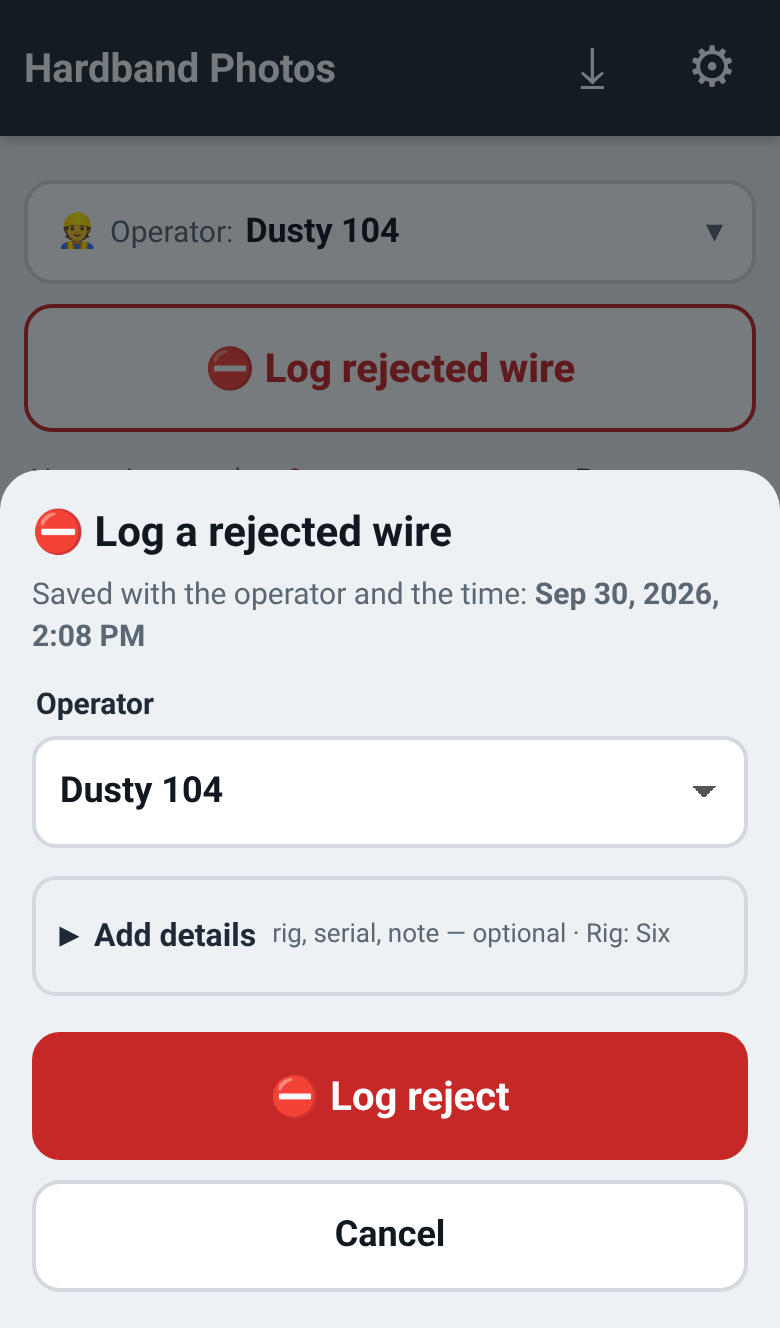
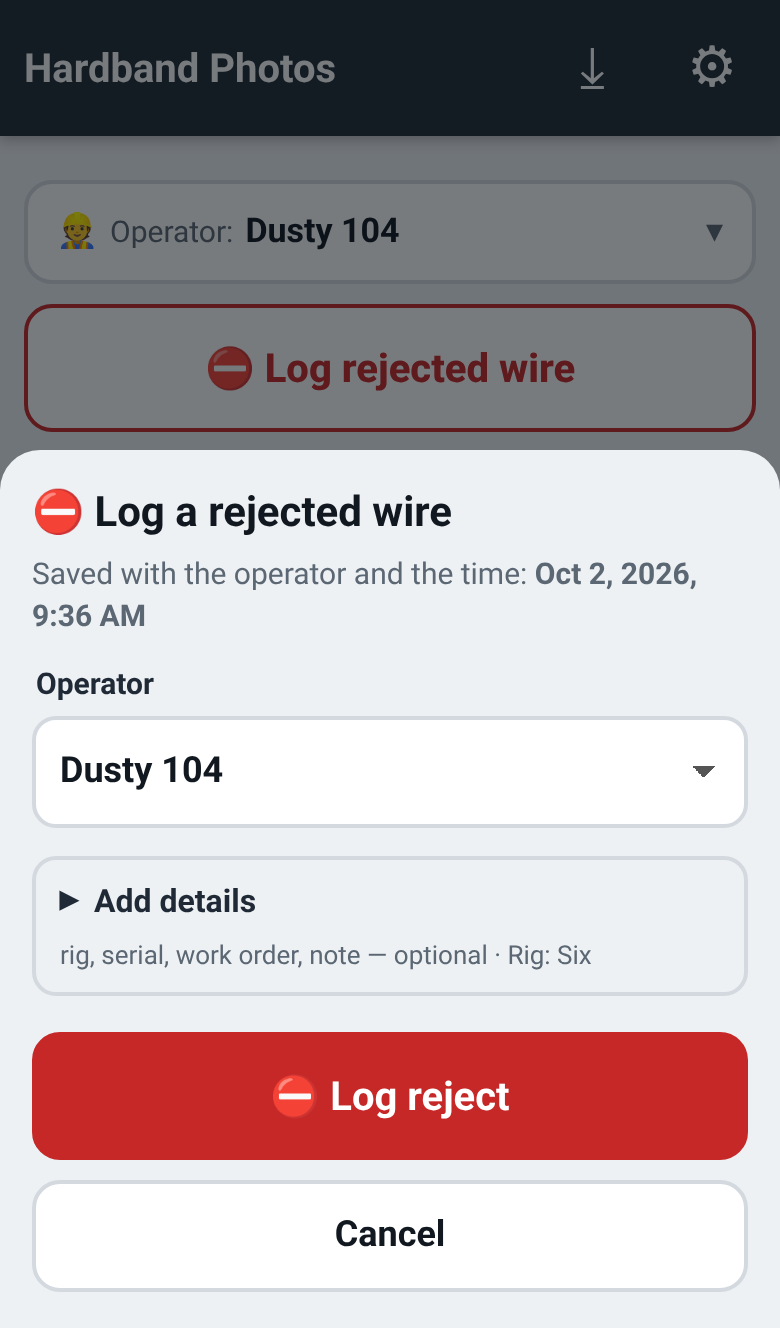
Reject log: optional 'Work order #' field under Add details in the '⛔ Log rejected wire' sheet (between Serial number and Note; summary reads 'rig, serial, work order, note — optional'), saved on the reject (workOrder), shown in the operator's reject list (WO …), work_order column in rejects.csv / R

Changed region(s): [[0.0, 0.3396, 1.0, 0.741], [0.6154, 0.6792, 0.8615, 0.741]]

diff --git a/sync.js b/sync.js
@@ -92,18 +92,25 @@ function applyPhotoRow(p, r) {
   if (!('thumb' in p)) p.thumb = null;
   return p;
 }
-// Rejected-wire log (table public.rejects, migration 004_rejects.sql).
+// Rejected-wire log (table public.rejects, migration 004_rejects.sql; work_order added by 005_reject_work_order.sql).
 function rejectToRow(r) {
   return {
     id: r.id, operator: String(r.operator || '').trim().replace(/\s+/g, ' ') || null, rejected_at: tsIso(r.rejectedAt),
     rig_id: r.rigId || '', rig_name: r.rigName || null, serial_number: r.serialNumber || '', note: r.note || '',
+    work_order: String(r.workOrder || '').trim() || null,
     client_updated_at: Math.round(r.updatedAt || r.rejectedAt || 0) || 0, deleted_at: tsIso(r.deletedAt),
     created_by_name: r.loggedBy || null, updated_by_name: S.meta.syncName || null,
   };
 }
-function rowToReject(r) {
+function rowToReject(r, local) {
   const it = { id: r.id, operator: r.operator || '', rejectedAt: tsMs(r.rejected_at) || tsMs(r.created_at) || Date.now(), rigId: r.rig_id || '',
     rigName: r.rig_name || '', serialNumber: r.serial_number || '', note: r.note || '', loggedBy: r.created_by_name || '', updatedAt: Number(r.client_updated_at) || 0 };
+  // Work order (same rule as the photo operator): a real value always wins. An empty one clears it, except while this
+  // phone still has to upload its work order (saved before the server had the column) — then the local value is kept
+  // until the catch-up. No 'work_order' key at all = server not migrated yet (005): keep what this phone has.
+  const mine = (local && local.workOrder) || '';
+  if ('work_order' in r) it.workOrder = r.work_order ? String(r.work_order) : ((S.meta.workOrderBacklog || []).includes(r.id) ? mine : '');
+  else it.workOrder = mine;
   if (r.deleted_at) it.deletedAt = tsMs(r.deleted_at);
   return it;
 }
@@ -141,10 +148,12 @@ async function sbFetch(path, { method = 'GET', headers = {}, body, timeout } = {
 // run, PostgREST answers 400 PGRST204 "Could not find the 'stage' column of 'photos' in the schema cache"
 // (42703 "column photos.stage does not exist" on a select). missingCol() tells which column the server lacks.
 const OPT_COLS = ['stage', 'operator'];
-const missingCol = (e) => {
+// Reject columns added by later migrations: work_order (005_reject_work_order.sql). Same detection as for photos.
+const REJECT_OPT_COLS = ['work_order'];
+const missingCol = (e, cols = OPT_COLS) => {
   if (!e || e.status !== 400) return '';
   const msg = e.message || '';
-  return OPT_COLS.find((c) => new RegExp(`'${c}' column|column [\\w."]*\\b${c}\\b`, 'i').test(msg)) || '';
+  return cols.find((c) => new RegExp(`'${c}' column|column [\\w."]*\\b${c}\\b`, 'i').test(msg)) || '';
 };
 const isNoStageCol = (e) => missingCol(e) === 'stage';
 // Table public.rejects not created yet (migration 004_rejects.sql not run): PostgREST answers 404 PGRST205 "Could not
@@ -161,7 +170,7 @@ const downloadObj = async (path) => { const res = await sbFetch(objPath(path), {
 
 /* ---------- the engine ---------- */
 const Sync = {
-  on: HB_CFG.on, stageCol: null, stageCheckedAt: 0, operatorCol: null, operatorCheckedAt: 0, rejectsTable: null, rejectsCheckedAt: 0, running: false, again: false, pending: 0, phase: '', lastError: null, lastOk: 0, timer: null, changed: false,
+  on: HB_CFG.on, stageCol: null, stageCheckedAt: 0, operatorCol: null, operatorCheckedAt: 0, workOrderCol: null, workOrderCheckedAt: 0, rejectsTable: null, rejectsCheckedAt: 0, running: false, again: false, pending: 0, phase: '', lastError: null, lastOk: 0, timer: null, changed: false,
   get session() { return S.meta.syncSession || null; },
   get signedIn() { return !!(HB_CFG.on && this.session && this.session.refresh_token); },
 
@@ -273,6 +282,7 @@ const Sync = {
     await this.stageCatchUp();
     await this.operatorCatchUp();
     await this.rejectsCatchUp();
+    await this.workOrderCatchUp();
     const entries = (await db.all('outbox')).sort((a, b) => a.at - b.at);
     if (!entries.length) return;
     const order = { customers: 0, rigs: 1, pipeSpecs: 2, photos: 3, rejects: 4 };
@@ -320,8 +330,59 @@ const Sync = {
     const backlog = S.meta.rejectBacklog || [], add = ids.filter((id) => !backlog.includes(id));
     if (add.length) await setMeta('rejectBacklog', backlog.concat(add));
   },
+  // Until the server has the 'work_order' column (005_reject_work_order.sql), PostgREST answers 400 PGRST204 (or
+  // 42703): the rows are sent again without it (so sync never breaks and the pill stays ✓ Synced), the phone keeps the
+  // value, and rejects that have one are remembered (meta.workOrderBacklog) and filled in once the column exists.
   async upsertRejects(recs) {
-    for (let i = 0; i < recs.length; i += 200) await upsertRows('rejects', recs.slice(i, i + 200).map(rejectToRow));
+    for (let i = 0; i < recs.length; i += 200) {
+      const chunk = recs.slice(i, i + 200), rows = chunk.map(rejectToRow);
+      const drop = () => rows.forEach((x) => { delete x.work_order; });
+      if (this.workOrderCol === false) drop();
+      for (;;) {
+        try { await upsertRows('rejects', rows); break; }
+        catch (e) {
+          if (missingCol(e, REJECT_OPT_COLS) !== 'work_order' || !('work_order' in rows[0])) throw e;
+          if (this.workOrderCol !== false) console.warn('sync: server has no rejects.work_order column yet (run 005_reject_work_order.sql) — uploading without it');
+          this.workOrderCol = false; this.workOrderCheckedAt = Date.now();
+          drop();
+        }
+      }
+      if ('work_order' in rows[0]) { this.workOrderCol = true; continue; }
+      const backlog = S.meta.workOrderBacklog || [];
+      const add = chunk.filter((r) => rejectToRow(r).work_order && !backlog.includes(r.id)).map((r) => r.id);
+      if (add.length) await setMeta('workOrderBacklog', backlog.concat(add));
+    }
+  },
+  // Rejects uploaded while the column was missing get their work order filled in once it exists (checked at most
+  // every 5 min). A work_order-only PATCH, and only where the server's value is still empty (like the operator
+  // catch-up): it keeps the row's edit time and never overwrites a work order set since by another phone.
+  async workOrderCatchUp() {
+    const backlog = S.meta.workOrderBacklog || [];
+    if (!backlog.length || this.rejectsParked()) return false;
+    if (this.workOrderCol === false && Date.now() - (this.workOrderCheckedAt || 0) < 300000) return false;
+    this.workOrderCheckedAt = Date.now();
+    try { await sbFetch('/rest/v1/rejects?select=id,work_order&limit=1'); }
+    catch (e) {
+      if (missingCol(e, REJECT_OPT_COLS) === 'work_order') { this.workOrderCol = false; return false; }
+      if (isNoTable(e)) return false;
+      throw e;
+    }
+    this.workOrderCol = true;
+    const by = new Map();
+    for (const id of backlog) {
+      const r = await db.get('rejects', id), v = r && rejectToRow(r).work_order;
+      if (v) { if (!by.has(v)) by.set(v, []); by.get(v).push(id); }
+    }
+    for (const [v, list] of by) {
+      for (let i = 0; i < list.length; i += 100) {
+        const ids = list.slice(i, i + 100).map((x) => `"${String(x).replace(/["\\]/g, '')}"`).join(',');
+        await sbFetch(`/rest/v1/rejects?id=in.(${encodeURIComponent(ids)})&work_order=is.null`, { method: 'PATCH', body: JSON.stringify({ work_order: v }),
+          headers: { 'Content-Type': 'application/json', Prefer: 'return=minimal' } });
+      }
+    }
+    const left = (S.meta.workOrderBacklog || []).filter((id) => !backlog.includes(id)); // added while uploading
+    await setMeta('workOrderBacklog', left);
+    return true;
   },
   async pushRejects(entries) {
     if (!entries.length) return;
@@ -381,8 +442,10 @@ const Sync = {
       const dirty = outbox.get(`rejects:${r.id}`), local = await db.get('rejects', r.id);
       const lts = local ? (local.updatedAt || 0) : -1, rts = Number(r.client_updated_at) || 0;
       if (local && (dirty || backlog.has(r.id)) && lts > rts) continue;                        // our newer edit wins; it will upload
-      if (local && lts === rts && !!local.deletedAt === !!r.deleted_at) { if (dirty) await outboxDone(dirty); continue; } // already have it
-      const it = rowToReject(r);
+      // (a work order filled in later by another phone's catch-up PATCH keeps the edit time, so compare it too)
+      const sameExtra = local && (!r.work_order || r.work_order === local.workOrder);
+      if (local && lts === rts && sameExtra && !!local.deletedAt === !!r.deleted_at) { if (dirty) await outboxDone(dirty); continue; } // already have it
+      const it = rowToReject(r, local);
       await db.put('rejects', it);
       S.rejects = S.rejects.filter((x) => x.id !== it.id);
       if (!it.deletedAt) S.rejects.push(it);

diff --git a/app.js b/app.js
@@ -1256,8 +1256,9 @@ function drawInspBar(v) {
 }
 
 /* ================= rejects: rejected-wire log ================= */
-// One record per rejected wire: { id, operator ('Name Number'), rejectedAt (ms), rigId, rigName, serialNumber, note,
-// loggedBy (team sign-in name on the phone), updatedAt, deletedAt? }. Only the operator is required.
+// One record per rejected wire: { id, operator ('Name Number'), rejectedAt (ms), rigId, rigName, serialNumber, workOrder,
+// note, loggedBy (team sign-in name on the phone), updatedAt, deletedAt? }. Only the operator is required.
+// workOrder = optional "Work order #" (Supabase column rejects.work_order, migration 005_reject_work_order.sql).
 // Counted per operator by number (opKey), like the photos. Shared through the team-library table public.rejects
 // (supabase/migrations/004_rejects.sql); until that table exists they stay on the phone and upload later.
 // Delete = soft (deletedAt) in team mode, so the delete reaches the other phones; nothing is hard-deleted.
@@ -1279,10 +1280,11 @@ function rejectSummaryHTML(curOp) {
   const mine = k ? S.rejects.filter((r) => opKey(r.operator) === k && isoDay(r.rejectedAt) === today).length : 0;
   return `<a class="rej-sum" id="rejSummary" href="#/rejects"><span>${k ? `Your rejects today: <b id="rejMine">${mine}</b>` : `Rejects logged: <b id="rejMine">${S.rejects.length}</b>`}</span><span class="rej-sum-r">By operator ›</span></a>`;
 }
-async function logReject({ operator, rigId = '', serialNumber = '', note = '' }) {
+async function logReject({ operator, rigId = '', serialNumber = '', workOrder = '', note = '' }) {
   const now = Date.now();
   const r = { id: 'rj_' + uid(), operator: cleanOp(operator), rejectedAt: now, rigId: rigId || '', rigName: labelOf('rigs', rigId) || '',
-    serialNumber: String(serialNumber || '').trim().toUpperCase(), note: String(note || '').trim(), loggedBy: S.meta.syncName || '', updatedAt: now };
+    serialNumber: String(serialNumber || '').trim().toUpperCase(), workOrder: String(workOrder || '').trim(), note: String(note || '').trim(),
+    loggedBy: S.meta.syncName || '', updatedAt: now };
   await db.put('rejects', r);
   S.rejects.push(r);
   markDirty('rejects', r.id);
@@ -1305,7 +1307,7 @@ async function undoReject(r) {
   toast('Reject removed');
 }
 // One tap on "Log rejected wire" + one tap on "Log reject". The operator is pre-picked from the phone; with none set,
-// the same pick-your-name dropdown (or Add new operator) must be used first. Rig / serial / note are optional.
+// the same pick-your-name dropdown (or Add new operator) must be used first. Rig / serial / work order / note are optional.
 function logRejectSheet() {
   const lu = S.meta.lastUsed || {};
   const rigId = (S.inspection && S.inspection.rigId) || (S.rigs.has(lu.rigId) ? lu.rigId : '');
@@ -1315,6 +1317,7 @@ function logRejectSheet() {
     <details class="more-box" id="rejMore"><summary>Add details <span class="muted small" id="rejMoreSum"></span></summary>
       <div class="field"><label for="rejRig">Rig</label><select id="rejRig"><option value="">No rig</option>${opts('rigs', rigId)}</select></div>
       <div class="field"><label for="rejSerial">Serial number</label><input id="rejSerial" type="text" placeholder="Stamped serial / joint #" autocapitalize="characters" autocorrect="off" spellcheck="false" autocomplete="off"></div>
+      <div class="field"><label for="rejWo">Work order #</label><input id="rejWo" type="text" maxlength="60" placeholder="e.g. WO-12345" autocorrect="off" spellcheck="false" autocomplete="off"></div>
       <div class="field"><label for="rejNote">Note</label><input id="rejNote" type="text" maxlength="200" placeholder="e.g. porosity, cracks, bad wire" autocomplete="off"></div>
     </details>
     <div class="stack form-actions">
@@ -1322,7 +1325,7 @@ function logRejectSheet() {
       <button type="button" class="btn ghost block" id="rejCancel">Cancel</button>
     </div>`);
   const ctl = bindOpField('rejOp');
-  const sum = () => { const rn = labelOf('rigs', $('#rejRig', m).value); $('#rejMoreSum', m).textContent = `rig, serial, note — optional${rn ? ` · Rig: ${rn}` : ''}`; };
+  const sum = () => { const rn = labelOf('rigs', $('#rejRig', m).value); $('#rejMoreSum', m).textContent = `rig, serial, work order, note — optional${rn ? ` · Rig: ${rn}` : ''}`; };
   sum();
   $('#rejRig', m).addEventListener('change', sum);
   $('#rejCancel', m).onclick = () => closeModal(true);
@@ -1332,7 +1335,7 @@ function logRejectSheet() {
     $('#rejOk', m).disabled = true;
     rememberOperator(op, true);
     let r;
-    try { r = await logReject({ operator: op, rigId: $('#rejRig', m).value, serialNumber: $('#rejSerial', m).value, note: $('#rejNote', m).value }); }
+    try { r = await logReject({ operator: op, rigId: $('#rejRig', m).value, serialNumber: $('#rejSerial', m).value, workOrder: $('#rejWo', m).value, note: $('#rejNote', m).value }); }
     catch (e) { console.error(e); $('#rejOk', m).disabled = false; toast('Could not save: ' + e.message, 5000); return; }
     closeModal(true);
     redrawAfterReject();
@@ -1376,7 +1379,7 @@ function renderRejects(key) {
       <button type="button" class="op-link" id="rejPhotos" data-op-filter="${esc(key)}">📷 Show photos</button>
     </div>
     <div id="rejItems">${list.map((r) => {
-      const d = [rejectRig(r) ? '📁 ' + esc(rejectRig(r)) : '', r.serialNumber ? 'SN ' + esc(r.serialNumber) : '', esc(r.note || '')].filter(Boolean).join(' · ');
+      const d = [rejectRig(r) ? '📁 ' + esc(rejectRig(r)) : '', r.serialNumber ? 'SN ' + esc(r.serialNumber) : '', r.workOrder ? 'WO ' + esc(r.workOrder) : '', esc(r.note || '')].filter(Boolean).join(' · ');
       return `<div class="list-item rej-item" data-id="${esc(r.id)}"><div class="meta"><b class="rej-when">${esc(fmtDate(r.rejectedAt))}</b>${d ? `<small>${d}</small>` : ''}</div>
         <button type="button" class="btn ghost rej-del" data-del="${esc(r.id)}" aria-label="Delete this reject">🗑 Delete</button></div>`; }).join('')
       || '<div class="empty">No rejects.</div>'}</div>`;
@@ -1392,9 +1395,9 @@ function renderRejects(key) {
   };
 }
 function rejectsCsv() {
-  const rows = [['rejected', 'operator', 'operator_number', 'rig', 'serial_number', 'note', 'logged_by', 'id']];
+  const rows = [['rejected', 'operator', 'operator_number', 'rig', 'serial_number', 'work_order', 'note', 'logged_by', 'id']];
   for (const r of S.rejects.slice().sort((a, b) => a.rejectedAt - b.rejectedAt)) {
-    rows.push([isoLocal(r.rejectedAt), cleanOp(r.operator), parseOp(r.operator).num, rejectRig(r), r.serialNumber || '', r.note || '', r.loggedBy || '', r.id]);
+    rows.push([isoLocal(r.rejectedAt), cleanOp(r.operator), parseOp(r.operator).num, rejectRig(r), r.serialNumber || '', r.workOrder || '', r.note || '', r.loggedBy || '', r.id]);
   }
   return '\ufeff' + rows.map((x) => x.map(csvCell).join(',')).join('\r\n') + '\r\n';
 }

diff --git a/sw.js b/sw.js
@@ -1,6 +1,6 @@
 /* Hardband Photos service worker: caches the app shell so the app opens offline.
    Bump VERSION whenever app files change so phones pick up the new copy. */
-const VERSION = 'hbp-v11';
+const VERSION = 'hbp-v12';
 const SHELL = [
   './',
   './index.html',

diff --git a/README.md b/README.md
@@ -12,6 +12,7 @@ optionally, in a **shared team library** (Supabase), so the whole crew sees the 
 - `supabase/migrations/003_operator.sql`: adds `photos.operator` (who did the work)
 - `supabase/migrations/004_rejects.sql`: adds the `rejects` table (reject log) **and** repeats 003, so it is the one file
   to run on a project that has neither yet
+- `supabase/migrations/005_reject_work_order.sql`: adds `rejects.work_order` (Work order # on a reject; run after 004)
 - `SUPABASE_SETUP.md`: click-by-click setup for a non-developer
 - `manifest.webmanifest`, `sw.js`: installable + offline app shell (bump `VERSION` in sw.js when files change)
 - `vendor/jszip.min.js`: JSZip 3.10.1 (bundled locally for offline ZIP export/import)
@@ -71,21 +72,25 @@ Each rejected wire can be logged in two taps, and the app counts rejects per ope
 - Home screen: **⛔ Log rejected wire** right under the *👷 Operator* chip → a sheet with the operator (pre-picked from
   the phone; with none set, the same pick-your-name dropdown / *＋ Add new operator…* is required first), the time it
   will be saved with, and **⛔ Log reject**. *Add details* (collapsed, optional) = rig (defaults to the last-used rig),
-  serial, short note. Nothing else is required. A toast *Reject logged — Dusty 104* with **Undo** follows; a line under
+  serial, **Work order #**, short note. Nothing else is required. A toast *Reject logged — Dusty 104* with **Undo** follows; a line under
   the button shows *Your rejects today* and links to the per-operator list.
 - **Rejects by operator** (`#/rejects`, also a link under Filter → Operator): one row per operator (same number = same
   operator, case/spaces ignored) with the count and last reject, most rejects first, plus *Unassigned* if any. Tap a
-  name: every reject with its date and time (phone's local time), rig / serial / note, and **🗑 Delete** (asks first),
+  name: every reject with its date and time (phone's local time), rig / serial / work order / note, and **🗑 Delete** (asks first),
   plus *Show photos*. **⤓ Rejects list (CSV for Excel)** shares/downloads all rejects.
 - Filter → Operator options read e.g. *Dusty 104 — 12 photos, 3 rejects* (operators with only rejects are listed too);
   with an operator selected, the results show *⛔ 3 rejects logged ›*.
-- Export ZIP: `rejects.csv` (one row per reject, local time, operator + number, rig, serial, note, logged_by, id),
+- Export ZIP: `rejects.csv` (one row per reject, local time, operator + number, rig, serial, work_order, note, logged_by, id),
   `rejects_by_operator.csv` (counts), and `rejects` in metadata.json; import restores missing rejects.
 - Storage: IndexedDB store `rejects` (DB version 3). Delete is soft (`deletedAt`) in team mode.
 - Team sync: table `public.rejects` (`supabase/migrations/004_rejects.sql`, same RLS as photos: authenticated only, no
   DELETE). Rejects go through the outbox like photos (offline → queued). If the table doesn't exist yet (PostgREST
   `404 PGRST205`, or `42P01` / `42501`), the phone keeps them in `meta.rejectBacklog`, the pill still shows ✓ Synced,
   and it re-checks at most every 5 minutes, then uploads them (last-write-wins by `client_updated_at`).
+- Work order # (`workOrder` on the record, column `rejects.work_order`, `supabase/migrations/005_reject_work_order.sql`).
+  Until 005 is run, rejects upload without it (PGRST204 / 42703 detection, like `photos.operator`), each phone keeps
+  its work orders (`meta.workOrderBacklog`, pill stays ✓ Synced) and fills them in on the server (work_order-only PATCH
+  where still empty) once the column exists; pulling rows without the column never clears a local work order.
 
 ## Shared team library (optional)
 1. Follow `SUPABASE_SETUP.md` (free Supabase project → run `supabase/setup.sql` → create the team user → turn off sign-ups).
@@ -116,7 +121,8 @@ team project.
 - `/workspace/.pwvenv/bin/python /workspace/hbtest/test_sync.py`: two phones against an in-memory fake Supabase
   (`hbtest/mock_supabase.py`), including the upgrade from the current `main` version with photos already on the phone,
   a server without the `stage` column (then migrated), a phone still on the old version editing a Before photo,
-  the operator column, and the reject log (no table → kept on the phone → migrated → second phone, undo/delete, offline).
+  the operator column, the reject log (no table → kept on the phone → migrated → second phone, undo/delete, offline),
+  and the reject work order column (no column → kept on the phone → 005 run → filled in, second phone).
 
 ## Hosting
 Any static HTTPS host works (service workers and install need HTTPS; `localhost` also works for testing).

diff --git a/SUPABASE_SETUP.md b/SUPABASE_SETUP.md
@@ -83,6 +83,16 @@ with the same security as photos: only the signed-in crew can see or add rejects
 Phones keep working before you run it: operators and rejects stay on each phone and upload by themselves within a few
 minutes after it's run. Until then, other phones don't see who took a photo, and each phone only counts its own rejects.
 
+### ▶ Then: Work order # on rejects — run it once (after the file above)
+1. **SQL Editor** → new, empty query.
+2. Open this link, select everything, copy, and paste it into the editor:
+   https://raw.githubusercontent.com/442r545dy6-maker/hardband-photos/main/supabase/migrations/005_reject_work_order.sql
+3. Click **Run**. It only adds one column (`work_order` on the rejects table); nothing is changed or deleted, and it's
+   safe to run again. "Success. No rows returned" means it worked.
+
+Phones keep working before you run it: a work order typed under *Add details* stays on that phone and is uploaded by
+itself within a few minutes after it's run. Until then, other phones see the reject without its work order.
+
 ## 4. Create the team login
 1. In the left sidebar, click **Authentication**, then **Users**.
 2. Click **Add user**, then **Create new user**.
